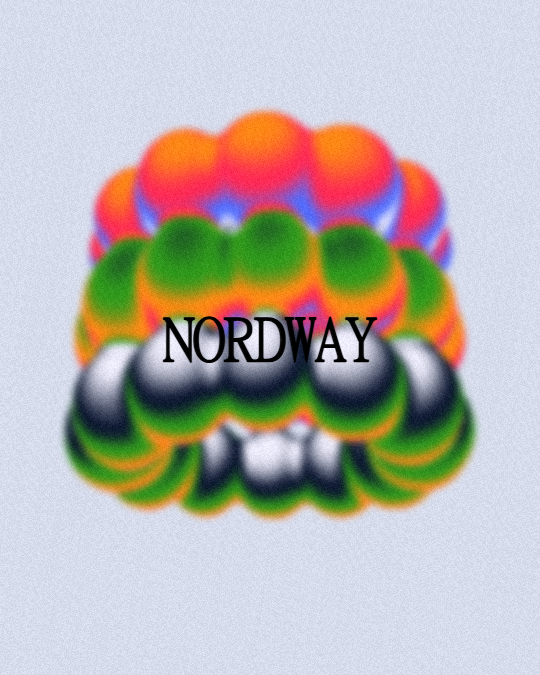
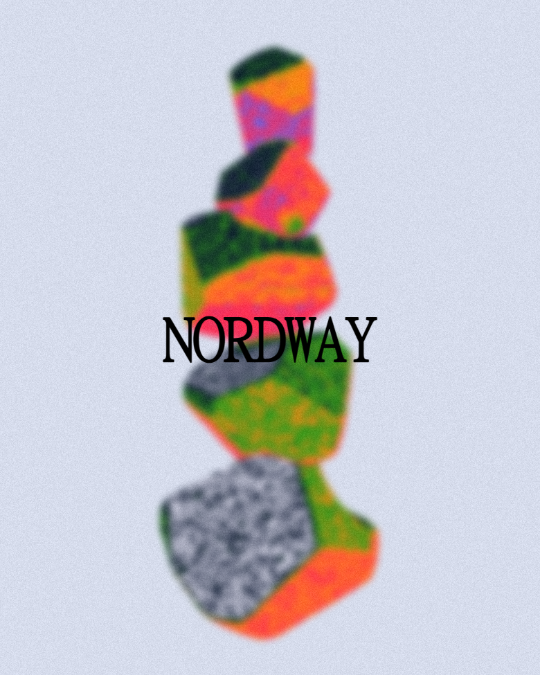
Cairn generator : ouverture plus rapide, grain aléatoire, nouveaux réglages par défaut et miniature
Kinetic v2 devient Cairn generator : mode Cairn, 5 pierres, zoom 1.8, graine 5,
caméra perpendiculaire et palette Thermal par défaut ; grain sans trame.

diff --git a/tools_kinetic_v2_000/index.html b/tools_kinetic_v2_000/index.html
@@ -3,7 +3,7 @@
 <head>
 <meta charset="UTF-8" />
 <meta name="viewport" content="width=device-width, initial-scale=1" />
-<title>Kinetic v2</title>
+<title>Cairn generator</title>
 <!-- interface commune des outils (verre, typo, sliders), puis la mise en page propre à l'outil.
      Repart de 3D kinetic type 002 (formats, lecteur, exports), avec beaucoup moins de réglages :
      une forme organique (anneaux de perles fondues, dégradé, flou, grain) et un calque typo posé dessus. -->
@@ -18,7 +18,7 @@
 
   <header id="panelHead">
     <p class="eyebrow"><a class="badge backLink" href="../" title="Back to all tools">← Digital tools</a></p>
-    <h1 class="toolTitle">Kinetic v2</h1>
+    <h1 class="toolTitle">Cairn<br>generator</h1>
   </header>
 
   <!-- Typo : un calque à plat, posé sur la forme (jamais écrit dans la forme) -->
@@ -47,14 +47,14 @@
     <div class="row">
       <label for="shapeSelect">Shape</label>
       <select id="shapeSelect" class="asPills">
-        <option value="beads" selected>Bead rings</option>
+        <option value="beads">Bead rings</option>
         <option value="peak">Peak</option>
-        <option value="cairn">Cairn</option>
+        <option value="cairn" selected>Cairn</option>
       </select>
     </div>
     <div class="row beadsOnly"><label for="ringsSlider" title="Stacked rings">Rings</label><input id="ringsSlider" type="range" min="1" max="5" step="1" value="3" /></div>
     <div class="row beadsOnly"><label for="beadsSlider" title="Beads around each ring">Beads</label><input id="beadsSlider" type="range" min="6" max="24" step="1" value="12" /></div>
-    <div class="row cairnOnly"><label for="stonesSlider" title="Rocks in the pile (1 = a single rock)">Stones</label><input id="stonesSlider" type="range" min="1" max="8" step="1" value="3" /></div>
+    <div class="row cairnOnly"><label for="stonesSlider" title="Rocks in the pile (1 = a single rock)">Stones</label><input id="stonesSlider" type="range" min="1" max="8" step="1" value="5" /></div>
     <label class="check cairnOnly"><input id="altStonesToggle" type="checkbox" /> Stones turn apart</label>
     <div class="btnRow cairnOnly">
       <button id="newStonesBtn" type="button" title="Draws a new pile of stones">New stones</button>
@@ -292,7 +292,8 @@ precision highp float;
 in vec2 vUV;
 uniform vec2 uRes;
 uniform float uT;          // temps de la boucle, 0 → 1
-uniform int uShape;        // 0 anneaux de perles, 1 sommet (Peak), 2 cairn de granite
+// SHAPE (#define, posé par shapeSource) : 0 anneaux de perles, 1 sommet (Peak), 2 cairn de granite
+uniform int uZero;         // toujours 0 : borne de boucle que le compilateur ne peut pas dérouler
 uniform vec4 uStoneA[8];   // cairn : centre de chaque caillou (xyz) et sa graine
 uniform vec4 uStoneB[8];   // demi-axes (xyz) et orientation de départ
 uniform vec2 uStoneT[8];   // légère inclinaison (x, z)
@@ -490,8 +491,8 @@ float graniteTone(vec3 q, float seed) {
 // distance à la forme ; ring = l'anneau le plus proche (pour décaler le dégradé)
 float map(vec3 p, out float ring) {
   p = uRot * p;
-  if (uShape == 1) { ring = 0.0; return peakMap(p); }
-  if (uShape == 2) return cairnMap(p, ring);
+  if (SHAPE == 1) { ring = 0.0; return peakMap(p); }
+  if (SHAPE == 2) return cairnMap(p, ring);
   float rb = beadRadius();
   float gap = rb * 2.1;                  // d'un anneau au suivant : les anneaux se touchent à peine
   float sector = TAU / uBeads;
@@ -526,11 +527,15 @@ float map(vec3 p, out float ring) {
 }
 
 vec3 normalAt(vec3 p) {
+  // les 4 directions du tétraèdre, en boucle : map() n'est compilée qu'une fois (sous Windows, le
+  // compilateur Direct3D recopie chaque appel, et le shader mettait des secondes à compiler)
   float r;
-  const vec2 k = vec2(1.0, -1.0);
-  const float h = 0.0015;
-  return normalize(k.xyy * map(p + k.xyy * h, r) + k.yyx * map(p + k.yyx * h, r)
-                 + k.yxy * map(p + k.yxy * h, r) + k.xxx * map(p + k.xxx * h, r));
+  vec3 n = vec3(0.0);
+  for (int i = uZero; i < 4; i++) {
+    vec3 e = 0.5773 * (2.0 * vec3(float(((i + 3) >> 1) & 1), float((i >> 1) & 1), float(i & 1)) - 1.0);
+    n += e * map(p + e * 0.0015, r);
+  }
+  return normalize(n);
 }
 
 // dégradé cyclique de six teintes, transitions douces
@@ -546,14 +551,14 @@ void main() {
   vec3 ro = vec3(0.0, 0.0, uDist);
   vec3 rd = normalize(vec3(uv * TAN_HALF, -1.0));
   // sphère englobante : on ne marche que là où la forme peut être
-  float bound = uShape == 2 ? uBound : uShape == 1 ? 1.85 : R + beadRadius() * (1.5 + float(uRings) * 0.9) + 0.2;
+  float bound = SHAPE == 2 ? uBound : SHAPE == 1 ? 1.85 : R + beadRadius() * (1.5 + float(uRings) * 0.9) + 0.2;
   float b = dot(ro, rd), cc = dot(ro, ro) - bound * bound, disc = b * b - cc;
   vec3 col = uBg;
   if (disc > 0.0) {
     float t = max(0.0, -b - sqrt(disc)), tEnd = -b + sqrt(disc);
     float ring = 0.0;
     bool hit = false;
-    int steps = uShape == 1 ? 260 : uShape == 2 ? 170 : 110;
+    int steps = SHAPE == 1 ? 260 : SHAPE == 2 ? 170 : 110;
     for (int i = 0; i < 260; i++) {
       if (i >= steps) break;
       float d = map(ro + rd * t, ring);
@@ -574,13 +579,17 @@ void main() {
       // lumière forte = teinte 1, ombre = teinte 6 ; chaque anneau décale le dégradé
       col = palette((1.0 - clamp(v, 0.0, 1.0)) * uSpread + ring * uShift);
       col = mix(col, uPal[0], smoothstep(0.6, 1.0, fres) * 0.55); // liseré clair sur les bords
-      if (uShape == 2) {
+      if (SHAPE == 2) {
         // granite : le minéral donne la teinte, la lumière l'assombrit ; chaque caillou est un peu décalé
         int k = int(ring + 0.5);
         vec3 q = stoneRot(k) * (pileSpace(uRot * p) - stoneCenter(k));
         // cavités : la roche est plus sombre au fond des fissures et des éclats (occlusion, deux mesures)
-        float rr, h1 = 0.025, h2 = 0.07;
-        float ao = clamp(0.5 * (map(p + n * h1, rr) / h1 + map(p + n * h2, rr) / h2) / 0.7, 0.0, 1.0);
+        float rr, occ = 0.0;
+        for (int j = uZero; j < 2; j++) {
+          float hj = j == 0 ? 0.025 : 0.07;
+          occ += map(p + n * hj, rr) / hj;
+        }
+        float ao = clamp(0.5 * occ / 0.7, 0.0, 1.0);
         vec3 Lk = normalize(vec3(-0.45, 0.7, 0.55));           // lumière de studio, haute et de côté
         float key = max(dot(n, Lk), 0.0);
         float lit = (0.12 + 0.88 * key) * mix(0.5, 1.0, ao);
@@ -588,7 +597,7 @@ void main() {
         col = palette(tone * 0.35 + (1.0 - lit) * min(uSpread, 5.0) * 0.8 + ring * uShift * 0.15);
         col = mix(col, uPal[0], smoothstep(0.75, 1.0, fres) * 0.25);
       }
-      if (uShape == 1) {
+      if (SHAPE == 1) {
         // neige : sur les faces tournées vers le ciel, au-dessus d'une limite qui monte et descend (Breath)
         vec3 po = uRot * p, no = uRot * n;
         float line = 0.15 + uBreath * 0.12 * sin(TAU * uT) + 0.12 * (vnoise(po * 6.0) - 0.5);
@@ -627,10 +636,20 @@ uniform sampler2D uTex;
 uniform sampler2D uType;
 uniform float uGrain, uSeed, uTypeOn;
 out vec4 outColor;
-float hash(vec2 p) { return fract(sin(dot(p, vec2(12.9898, 78.233)) + uSeed) * 43758.5453); }
+// Hasard sur entiers (PCG) : pas de trame. L'ancien fract(sin(…)) perdait sa précision sur les
+// grandes coordonnées et dessinait des bandes et des motifs répétés dans le grain.
+uint pcg(uint v) {
+  uint s = v * 747796405u + 2891336453u;
+  uint w = ((s >> ((s >> 28u) + 4u)) ^ s) * 277803737u;
+  return (w >> 22u) ^ w;
+}
+float rnd(uvec2 p, uint k) { return float(pcg(p.x + pcg(p.y + pcg(k)))) / 4294967295.0; }
 void main() {
   vec3 col = texture(uTex, vUV).rgb;
-  col += (hash(gl_FragCoord.xy) - 0.5) * uGrain * 0.22;
+  // deux tirages additionnés : un grain en cloche, comme celui d'une pellicule (même force qu'avant)
+  uvec2 px = uvec2(gl_FragCoord.xy);
+  uint k = uint(uSeed) * 2u;
+  col += (rnd(px, k) + rnd(px, k + 1u) - 1.0) * uGrain * 0.156;
   vec4 type = texture(uType, vec2(vUV.x, 1.0 - vUV.y));
   col = mix(col, type.rgb, type.a * uTypeOn);
   outColor = vec4(col, 1.0);
@@ -643,21 +662,48 @@ function compile(type, src) {
   if (!gl.getShaderParameter(sh, gl.COMPILE_STATUS)) throw new Error(gl.getShaderInfoLog(sh));
   return sh;
 }
-function program(fs) {
+// startProgram lance la compilation sans l'attendre ; finishProgram l'attend et lit les uniformes
+function startProgram(fs) {
   const prog = gl.createProgram();
-  gl.attachShader(prog, compile(gl.VERTEX_SHADER, FULL_VS));
-  gl.attachShader(prog, compile(gl.FRAGMENT_SHADER, fs));
+  const vs = gl.createShader(gl.VERTEX_SHADER), fsh = gl.createShader(gl.FRAGMENT_SHADER);
+  gl.shaderSource(vs, FULL_VS);
+  gl.shaderSource(fsh, fs);
+  gl.compileShader(vs);
+  gl.compileShader(fsh);
+  gl.attachShader(prog, vs);
+  gl.attachShader(prog, fsh);
   gl.linkProgram(prog);
-  if (!gl.getProgramParameter(prog, gl.LINK_STATUS)) throw new Error(gl.getProgramInfoLog(prog));
-  const loc = {};
-  const n = gl.getProgramParameter(prog, gl.ACTIVE_UNIFORMS);
-  for (let i = 0; i < n; i++) {
-    const name = gl.getActiveUniform(prog, i).name.replace(/\[0\]$/, "");
-    loc[name] = gl.getUniformLocation(prog, name);
-  }
-  return { prog, loc };
+  return { prog, shaders: [vs, fsh], loc: null };
 }
-const shapeProg = program(SHAPE_FS);
+function finishProgram(p) {
+  if (!gl.getProgramParameter(p.prog, gl.LINK_STATUS)) {
+    throw new Error(p.shaders.map((sh) => gl.getShaderInfoLog(sh)).join("\n") || gl.getProgramInfoLog(p.prog));
+  }
+  p.loc = {};
+  const n = gl.getProgramParameter(p.prog, gl.ACTIVE_UNIFORMS);
+  for (let i = 0; i < n; i++) {
+    const name = gl.getActiveUniform(p.prog, i).name.replace(/\[0\]$/, "");
+    p.loc[name] = gl.getUniformLocation(p.prog, name);
+  }
+  return p;
+}
+const program = (fs) => finishProgram(startProgram(fs));
+
+// La forme : un programme par forme (chacun bien plus court à compiler que les trois réunis).
+// Bead rings est compilé au départ ; Peak et Cairn en arrière-plan quand le navigateur sait
+// compiler sans bloquer la page (KHR_parallel_shader_compile), sinon au premier choix.
+const SHAPE_IDS = { beads: 0, peak: 1, cairn: 2 };
+const shapeSource = (name) => SHAPE_FS.replace("#version 300 es", `#version 300 es\n#define SHAPE ${SHAPE_IDS[name]}`);
+const parallelCompile = gl.getExtension("KHR_parallel_shader_compile");
+const shapePrograms = {};
+// wait : attendre la compilation (export) ; sinon null tant qu'elle n'est pas finie
+function shapeProgram(name, wait) {
+  const p = (shapePrograms[name] ??= startProgram(shapeSource(name)));
+  if (p.loc) return p;
+  if (!wait && parallelCompile && !gl.getProgramParameter(p.prog, parallelCompile.COMPLETION_STATUS_KHR)) return null;
+  return finishProgram(p);
+}
+let drawnShape = controls.shape.value; // la forme réellement dessinée (l'ancienne reste affichée pendant que la nouvelle compile)
 const blurProg = program(BLUR_FS);
 const finalProg = program(FINAL_FS);
 const vao = gl.createVertexArray(); // aucun attribut : les sommets viennent de gl_VertexID
@@ -846,7 +892,7 @@ const PALETTES = {
   chrome:  { cycle: false, shift: 0.25, spread: 6.5, bg: "#e9e9eb", ink: "#000000",
              colors: ["#ffffff", "#d9dde3", "#9aa3ad", "#5b636d", "#2a2f36", "#0a0c0f"] },
 };
-const DEFAULT_PALETTE = "glacier"; // le bleu de Gradient body
+const DEFAULT_PALETTE = "thermal"; // dégradé thermique en boucle (Glacier : le bleu de Gradient body)
 let paletteName = DEFAULT_PALETTE;
 const palettePills = Array.from(document.querySelectorAll("#palettePills button"));
 function setPalette(name) {
@@ -871,7 +917,7 @@ function mulberry32(a) {
     return ((t ^ (t >>> 14)) >>> 0) / 4294967296;
   };
 }
-const DEFAULT_STONE_SEED = 1;
+const DEFAULT_STONE_SEED = 5; // choisie sur une planche des graines 1 à 12 : grosse base, pierres qui rétrécissent vers le haut
 let stoneSeed = DEFAULT_STONE_SEED;
 let cairnCache = null;
 function cairnStones() {
@@ -905,7 +951,7 @@ function cairnStones() {
 $("newStonesBtn").addEventListener("click", () => { stoneSeed++; });
 
 // ── Vue : orientation de la forme (glisser) et distance de la caméra (molette) ──
-const DEFAULT_VIEW = { tilt: 0.42, yaw: 0, zoom: 1 };
+const DEFAULT_VIEW = { tilt: 0, yaw: 0, zoom: 1.8 }; // vue de face, perpendiculaire à la pile (sans plongée) // plus près par défaut (la molette règle le reste)
 const viewState = { ...DEFAULT_VIEW };
 function rotationMatrix() {
   // la forme penche vers nous (tilt) puis tourne sur elle-même (yaw) ; colonnes d'abord, pour uRot * p
@@ -931,10 +977,15 @@ function render(fb, w, h, t, quality = 1) {
   // 1. la forme
   gl.bindFramebuffer(gl.FRAMEBUFFER, a.fb);
   gl.viewport(0, 0, sw, sh);
+  // l'export attend la forme choisie ; l'aperçu garde l'ancienne tant que la nouvelle compile
+  const wanted = controls.shape.value;
+  const shapeName = shapeProgram(wanted, fb !== null) ? wanted : drawnShape;
+  drawnShape = shapeName;
+  const shapeProg = shapeProgram(shapeName, true);
   gl.useProgram(shapeProg.prog);
   const S = shapeProg.loc;
   const rings = num("rings");
-  const shapeName = controls.shape.value, peak = shapeName === "peak", cairn = shapeName === "cairn";
+  const peak = shapeName === "peak", cairn = shapeName === "cairn";
   const C = cairn ? cairnStones() : null;
   // Breath ouvre le cairn et le referme pendant la boucle (0 au début et à la fin)
   const liftMax = num("breath") * 0.16;
@@ -946,7 +997,7 @@ function render(fb, w, h, t, quality = 1) {
   const fitH = halfExtent / 0.32 / 0.82, fitW = halfExtent / 0.32 / 0.82 / Math.min(1, w / h);
   gl.uniform2f(S.uRes, sw, sh);
   gl.uniform1f(S.uT, t);
-  gl.uniform1i(S.uShape, cairn ? 2 : peak ? 1 : 0);
+  gl.uniform1i(S.uZero, 0);
   if (cairn) {
     gl.uniform4fv(S.uStoneA, C.A);
     gl.uniform4fv(S.uStoneB, C.B);
@@ -1171,7 +1222,7 @@ function downloadBlob(blob, filename) {
 }
 $("exportBtn").addEventListener("click", () => {
   const { w, h } = FORMATS[currentFormat];
-  renderPoster(motionTime / loopDuration()).toBlob((blob) => downloadBlob(blob, `kinetic-v2-${currentFormat}-${w}x${h}.png`), "image/png");
+  renderPoster(motionTime / loopDuration()).toBlob((blob) => downloadBlob(blob, `cairn-generator-${currentFormat}-${w}x${h}.png`), "image/png");
 });
 
 const exportMp4Btn = $("exportMp4Btn");
@@ -1252,7 +1303,7 @@ async function exportMP4() {
   if (encodeError) throw encodeError;
   encoder.close();
   muxer.finalize();
-  downloadBlob(new Blob([muxer.target.buffer], { type: "video/mp4" }), `kinetic-v2-${currentFormat}-${w}x${h}-${loopDuration()}s.mp4`);
+  downloadBlob(new Blob([muxer.target.buffer], { type: "video/mp4" }), `cairn-generator-${currentFormat}-${w}x${h}-${loopDuration()}s.mp4`);
   motionTime = 0;
 }
 
@@ -1300,7 +1351,7 @@ async function recordWindow() {
     recorder.stop();
     await stopped;
     const ext = type.includes("mp4") ? "mp4" : "webm";
-    downloadBlob(new Blob(chunks, { type: type || "video/webm" }), `kinetic-v2-screen-${loopDuration()}s.${ext}`);
+    downloadBlob(new Blob(chunks, { type: type || "video/webm" }), `cairn-generator-screen-${loopDuration()}s.${ext}`);
   } finally {
     stream?.getTracks().forEach((t) => t.stop());
     setPlaying(true);
@@ -1328,6 +1379,8 @@ updateShapeRows();
 applyFormat(currentFormat);
 setMode("image");
 requestAnimationFrame(loop);
+// les formes non choisies au départ (Cairn par défaut) compilent en arrière-plan
+if (parallelCompile) setTimeout(() => Object.keys(SHAPE_IDS).forEach((name) => shapeProgram(name)), 1500);
 </script>
 </body>
 </html>

diff --git a/index.html b/index.html
@@ -204,8 +204,8 @@ const TOOLS = [
   },
   {
     dossier: "tools_kinetic_v2_000",
-    nom: "Kinetic v2",
-    desc: "A soft organic shape of melted bead rings, blurred and grainy, with a type layer on top, in a perfect loop.",
+    nom: "Cairn generator",
+    desc: "A pile of split stones that turns in a perfect loop, blurred and grainy, with a type layer on top. Also bead rings and a floating peak.",
     apercu: "apercu/tools_kinetic_v2_000.png",
   },
   {

diff --git a/tools_kinetic_v2_000/style.css b/tools_kinetic_v2_000/style.css
@@ -1,4 +1,4 @@
-/* Kinetic v2 — mise en page propre à l'outil (reprise de 3D kinetic type 002).
+/* Cairn generator (ex-Kinetic v2) — mise en page propre à l'outil (reprise de 3D kinetic type 002).
    Couleurs, typo, panneaux et contrôles : ../ui/ui_001.css */
 
 /* Zone principale : une seule frame, centrée */
